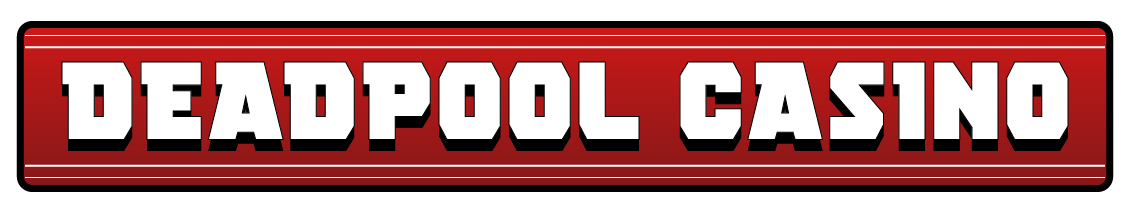
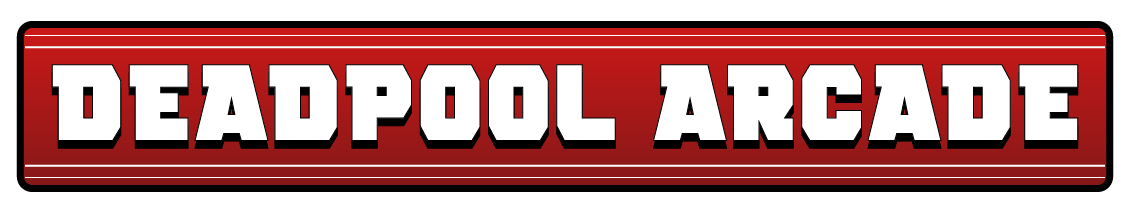
change to arcade

Changed region(s): [[0.031, 0.2817, 0.9602, 0.7324]]

diff --git a/app/src/App.jsx b/app/src/App.jsx
@@ -1,7 +1,6 @@
 import Dice from './Dice.jsx'
 import './App.css'
 import { ConnectionProvider, WalletProvider } from '@solana/wallet-adapter-react';
-// import { WalletAdapterNetwork } from "@solana/wallet-adapter-base";
 import { WalletModalProvider } from '@solana/wallet-adapter-react-ui';
 import { PhantomWalletAdapter, SolflareWalletAdapter } from '@solana/wallet-adapter-wallets';
 import { WalletMultiButton } from "@solana/wallet-adapter-react-ui";
@@ -10,7 +9,6 @@ import { clusterApiUrl } from '@solana/web3.js';
 import header from './assets/header.png'
 
 const network = clusterApiUrl('testnet')
-
 
 function App() {
   const wallets = [

diff --git a/app/index.html b/app/index.html
@@ -2,9 +2,9 @@
 <html lang="en">
   <head>
     <meta charset="UTF-8" />
-    <link rel="icon" type="image/svg+xml" href="/icon.png" />
+    <link rel="icon" type="image/svg+xml" href="/icon.svg" />
     <meta name="viewport" content="width=device-width, initial-scale=1.0" />
-    <title>Deadpool Casino</title>
+    <title>Deadpool Arcade</title>
   </head>
   <body>
     <div id="root"></div>
